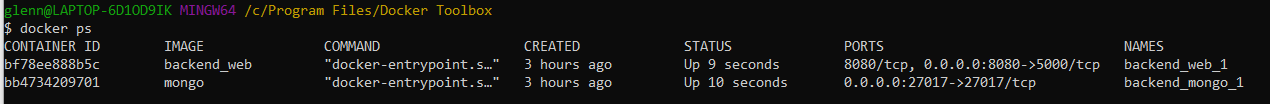
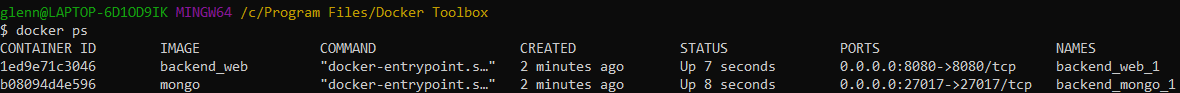
Changed ports to ensure consistency with Docker

diff --git a/backend/app.js b/backend/app.js
@@ -12,7 +12,7 @@ const userManagementRoute = require('./server/route/userManagement');
 const allConfig = require('./config');
 const config = allConfig[process.env.environment];
 
-const port = config.PORT || 5000;
+const port = process.env.PORT || 8080;
 
 var mongoDB = config.mongoURL;
 mongoose.connect(mongoDB, { useNewUrlParser: true, useUnifiedTopology: true } );

diff --git a/backend/README.md b/backend/README.md
@@ -134,7 +134,7 @@ Schema Design - userCredentialsModel.js
 
 
 
-## 2.2 MongoDB set up
+## 2.2 MongoDB set up (Locally)
 
 I used an ORM to make queries easier to perform. I defined the model in its own models folder and then called it in the `bll` folder. I connected to the database in the app.js file.
 
@@ -188,8 +188,7 @@ UserCredentials.find( { $or: [{'studentId' : studentId }, {'email': email}]}, fu
 
 Link for the `Dockerfile` and `docker-compose.yml`: https://itnext.io/dockerize-a-node-js-app-connected-to-mongodb-64fdeca94797
 
-- The only thing I changed was to port forward to port 5000 which works. Hence I changed `"8080:8080"` to `"8080:5000"`
-- NOTE: I tried `"8080:6000"` to no avail
+- Note: I had to change the port of the app to use `8080` and then change the `docker-compose.yml` file back to `8080:8080` for it to work
 
 Subsequently I could access Docker from either the localhost or the machine IP
 
